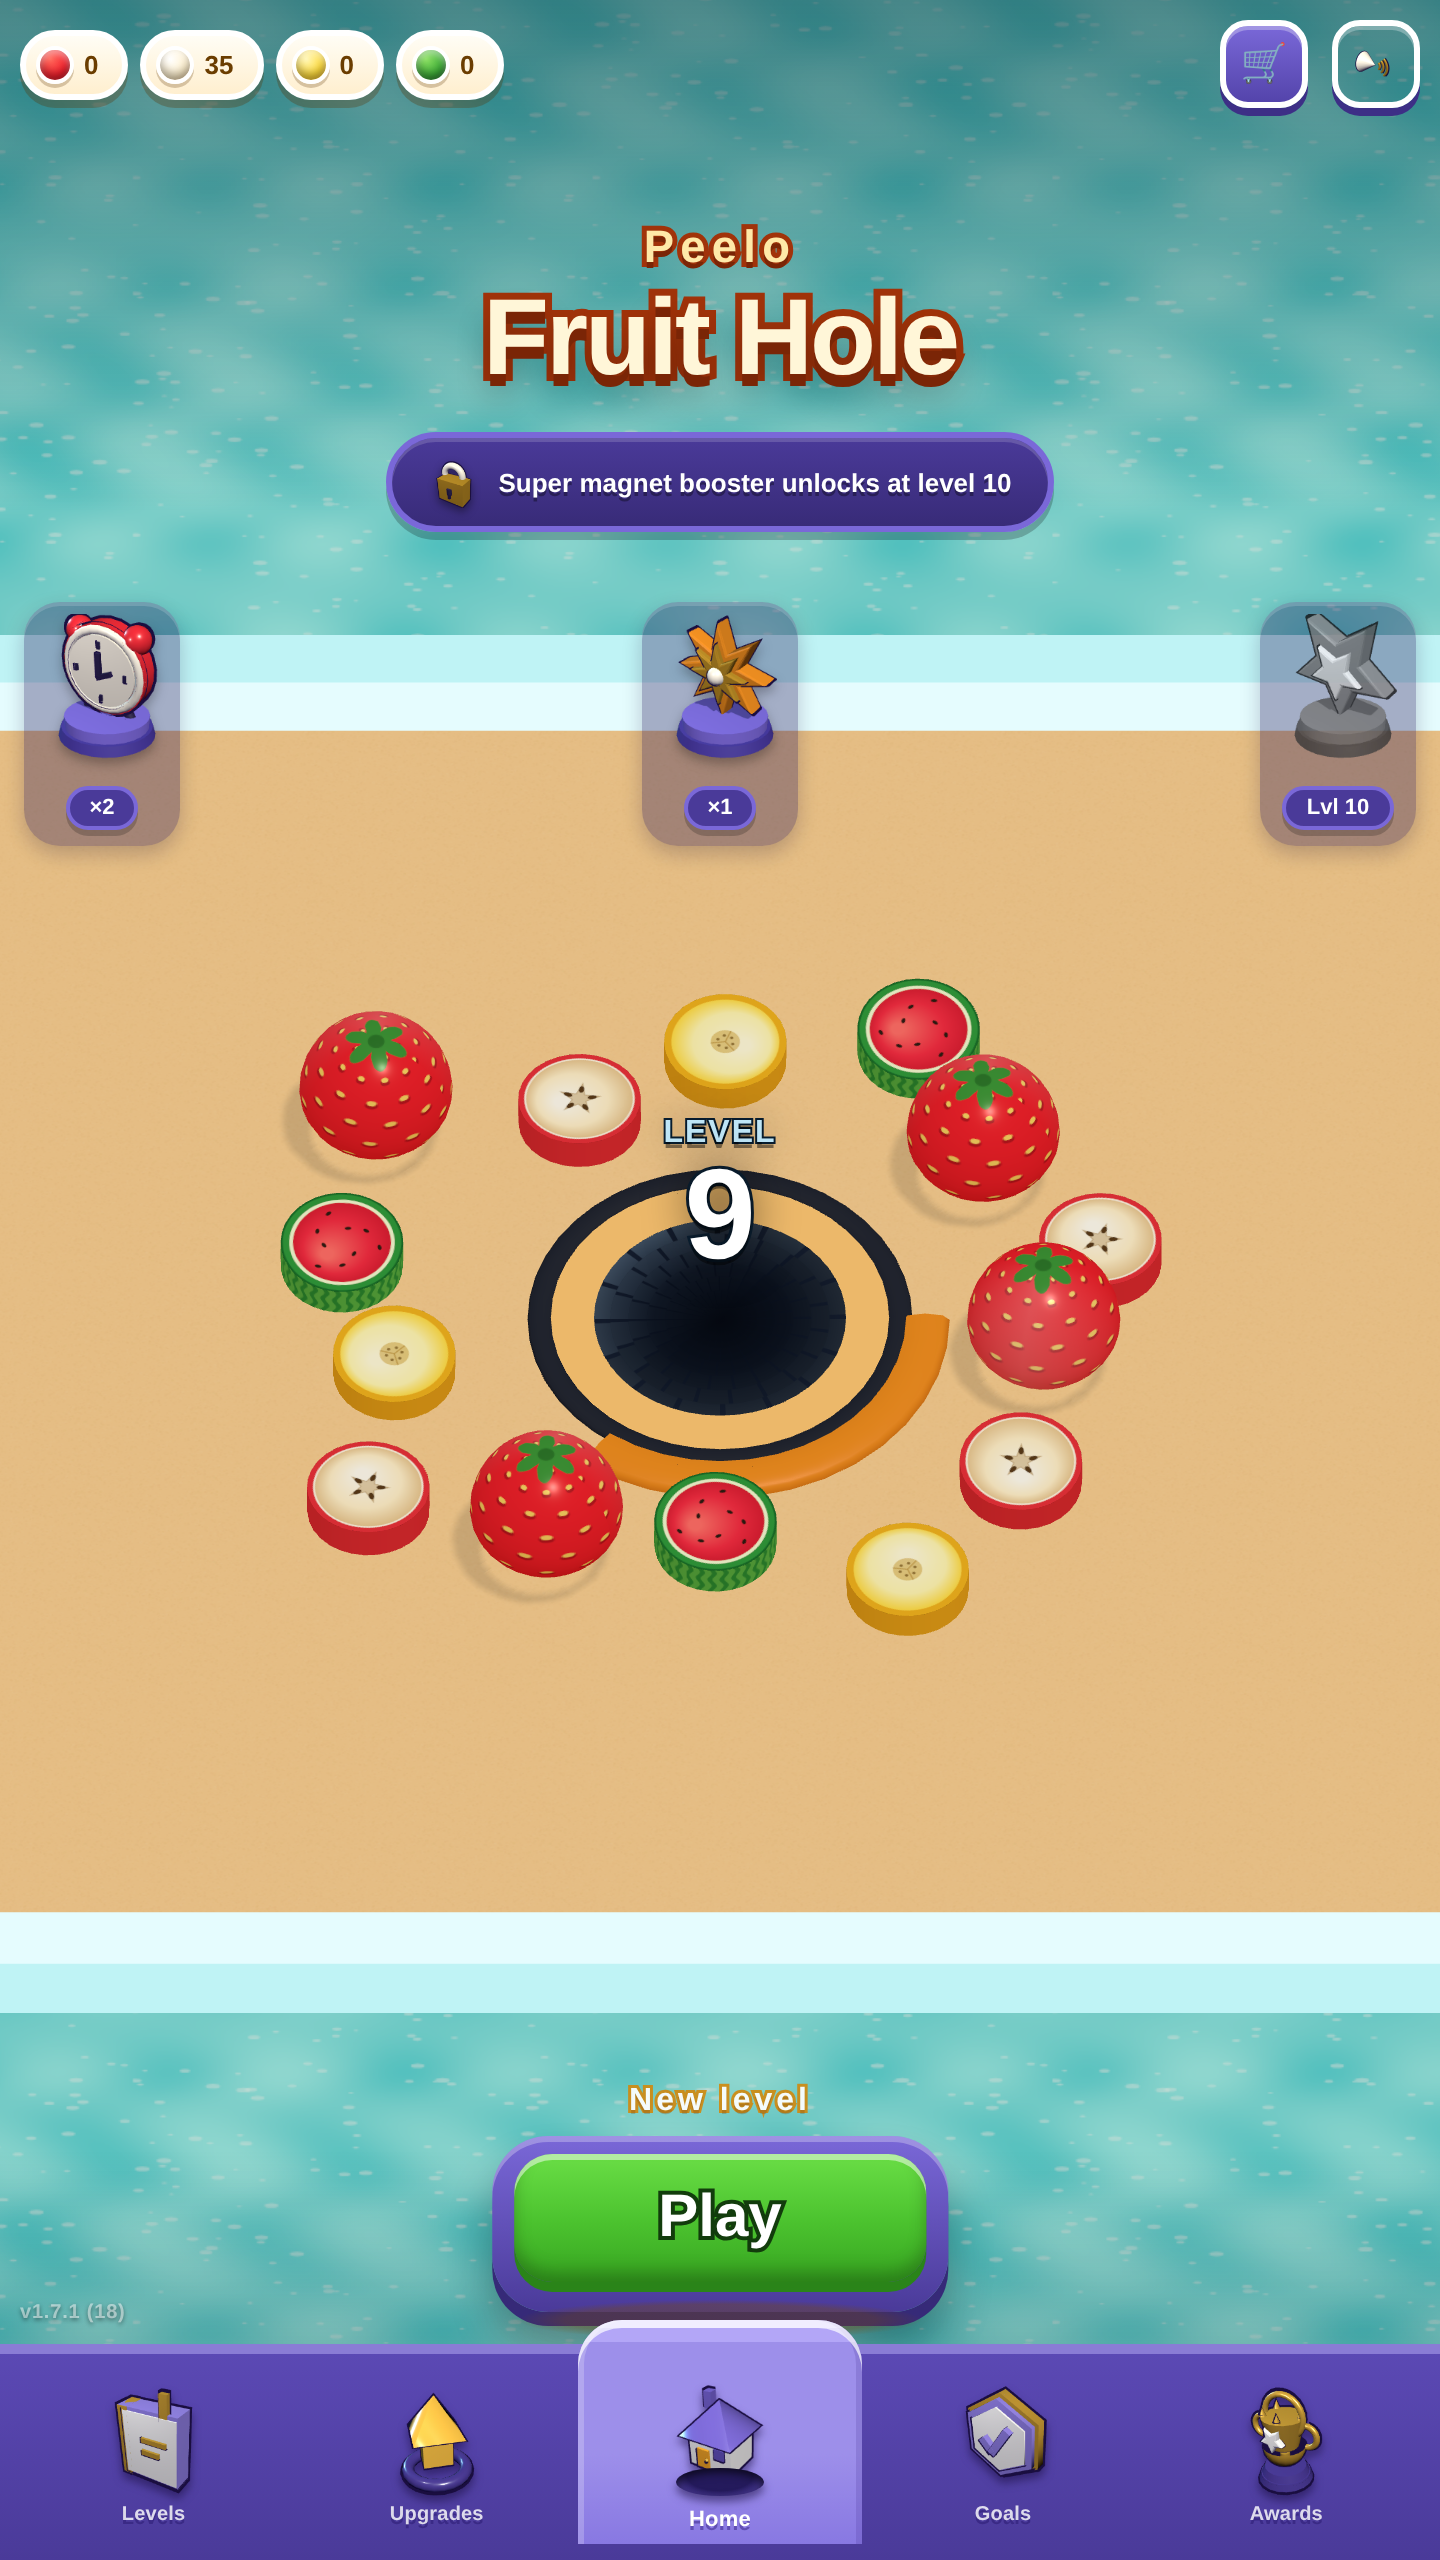
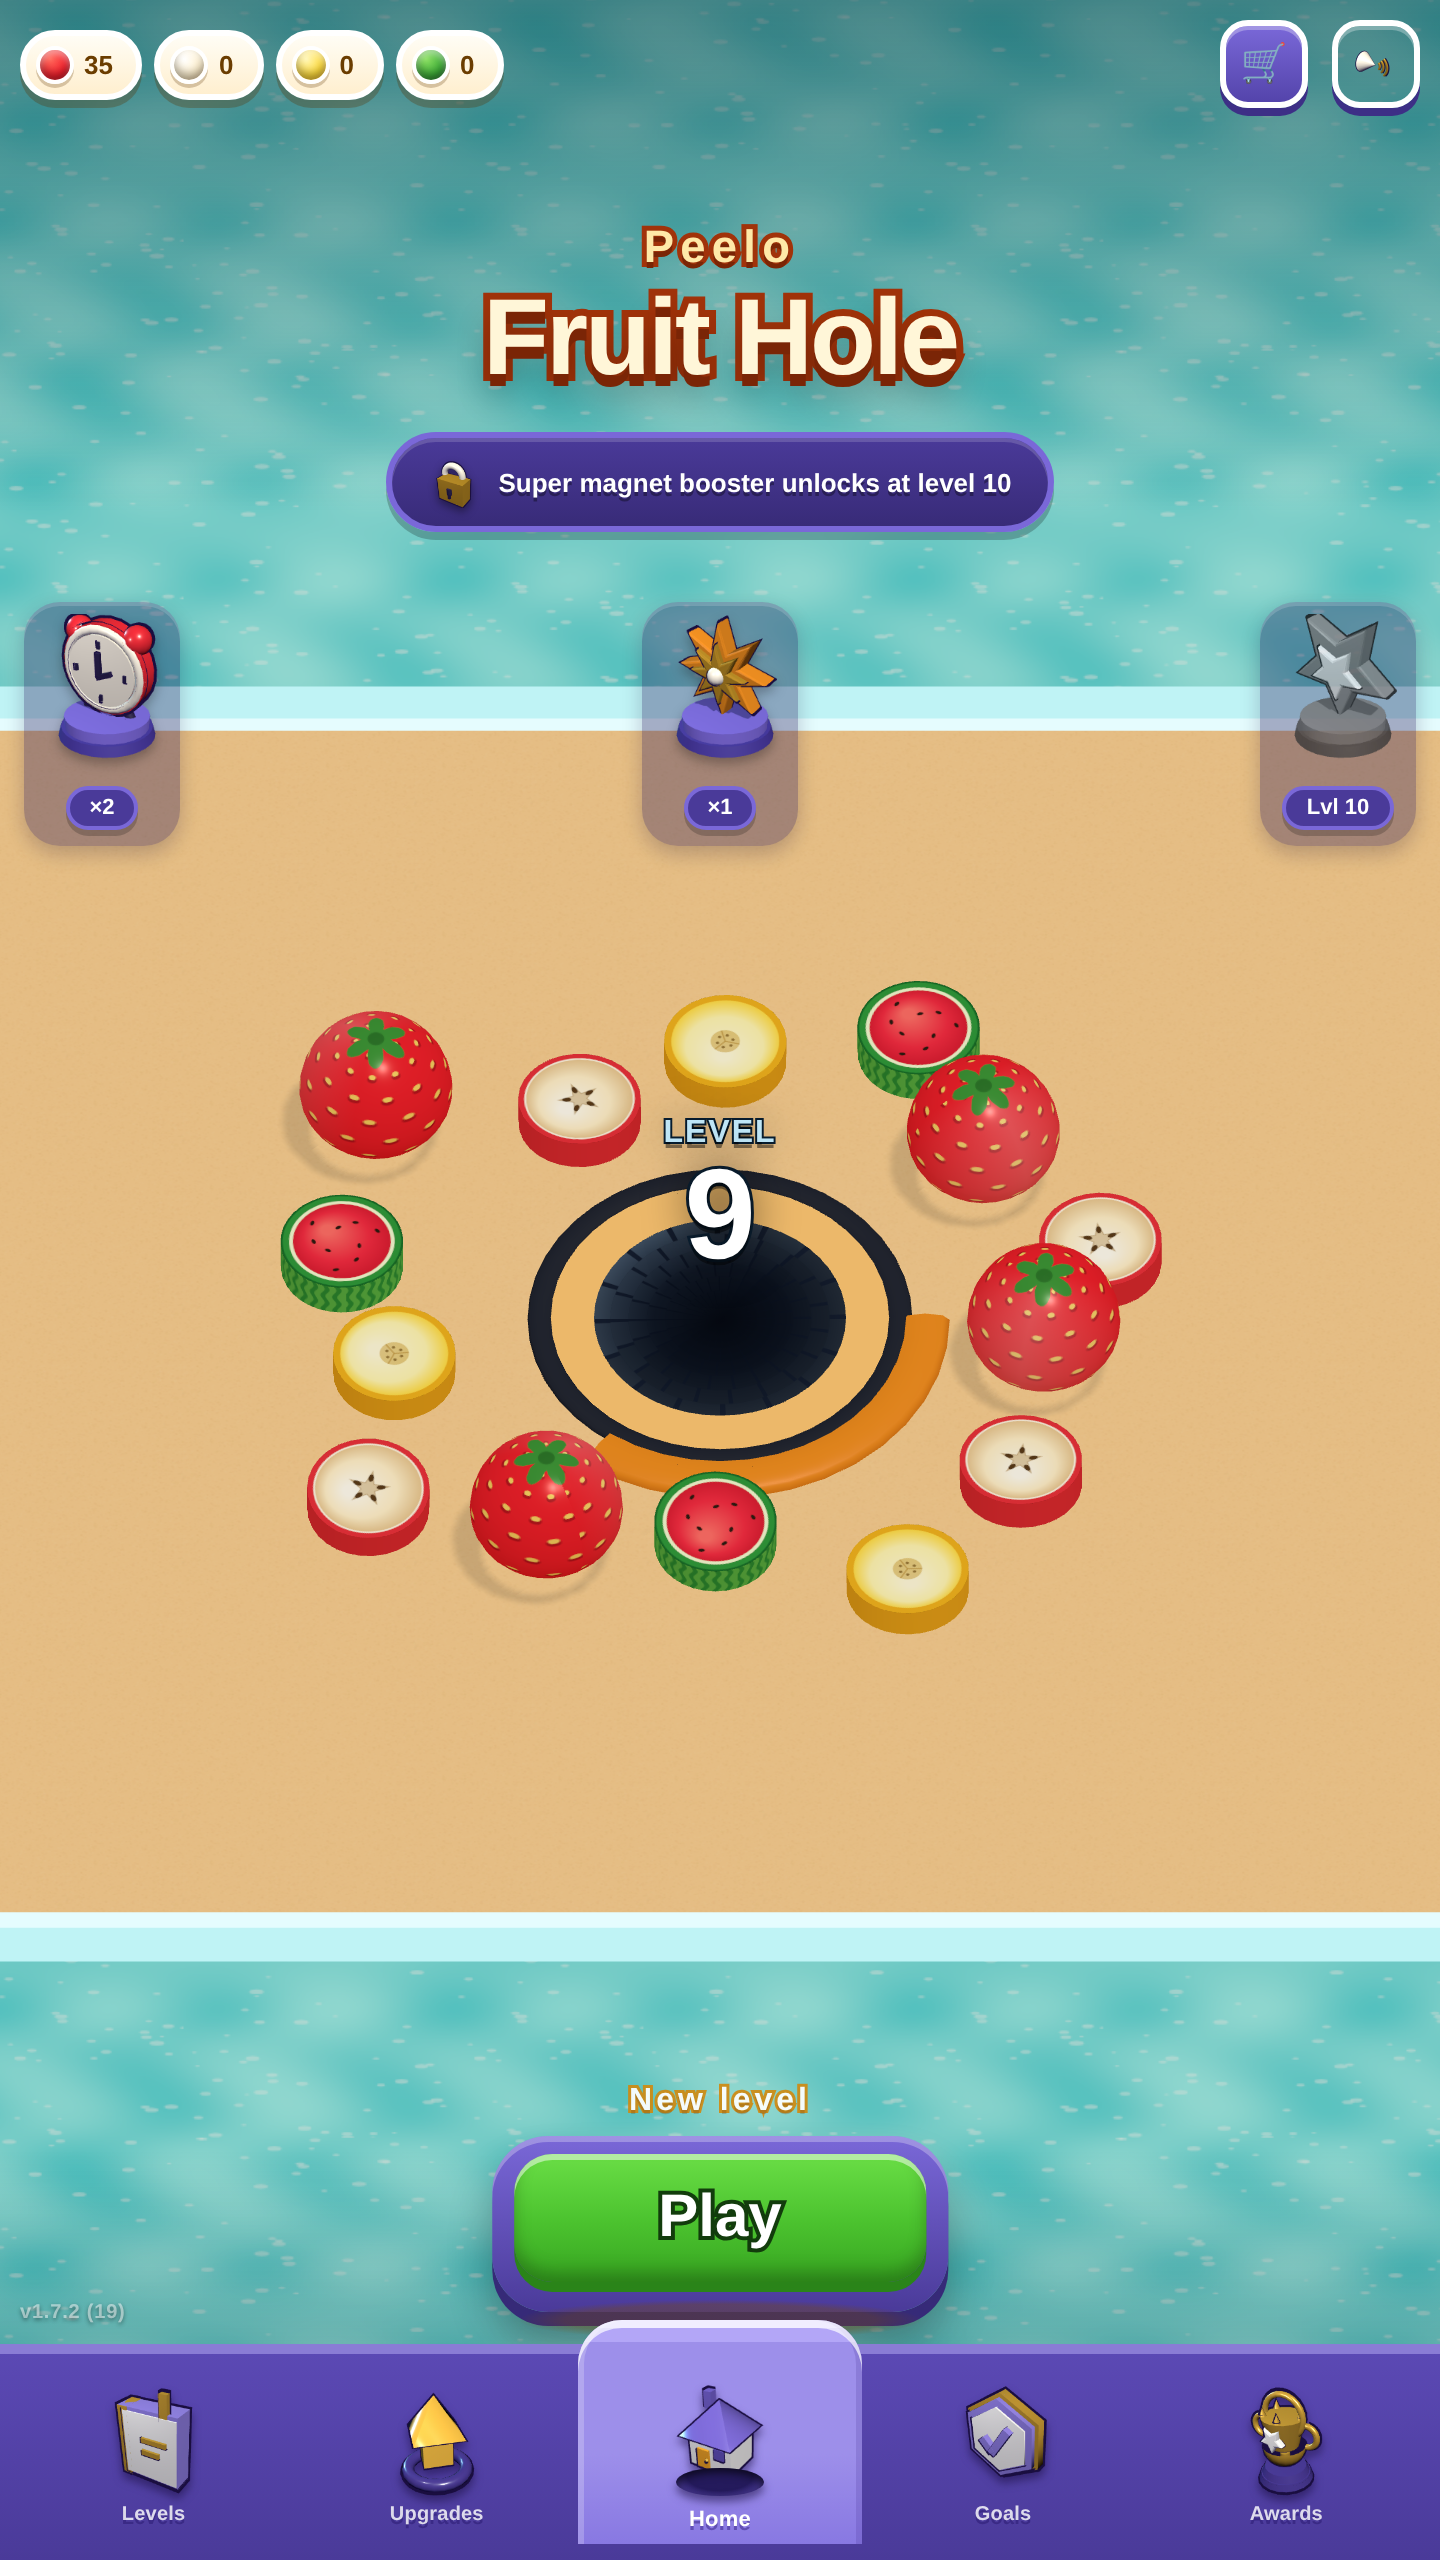
Fruit Hole: nothing stands between a new player and the game
I said the work was finished when what was actually finished was my own
list. Looking at the first sixty seconds instead — the part everything
else depends on — turned up two things, and the first is the worst thing
in the game.

On a fresh install the first screen anyone saw, before a single second
of play, was the daily reward: "Day 1 streak", 35 Banana, and a green
"Claim double" sitting above the plain Claim. A streak of one is a
streak of nothing. Thirty-five Banana is a currency they have not been
shown, for a shop they have not seen. And the very first thing the game
asked of them was to watch an advert, before giving them any reason to
want anything at all.

It waits until they have finished a level now. The reward is not lost —
it is there on the next launch, by which time there is a shop to spend
it in and a streak worth keeping. The two buttons are also the right way
round: the free one is nearest the thumb, the optional advert is not.

The gate is stats.levels rather than the presence of the stats object.
The four counters are filled with zeroes the moment the game loads, so
"has stats" is true on a phone that has never run it — my first attempt
therefore changed nothing at all.

The second thing was already there and this uncovered it. showMenu() was
only ever reached by dismissing the daily reward screen, so on any
launch without it — the second launch of the same day, and now every
first launch — the menu was never built. What came up behind the logo
[…]

diff --git a/www-fruithole/index.html b/www-fruithole/index.html
@@ -709,8 +709,10 @@
     <h1><span class="hIco" data-icon="star"></span>Daily Reward</h1>
     <p id="dailySub"></p>
     <div class="stats" id="dailyLoot"></div>
-    <button class="btn adBtn" id="daily2x" hidden>📺 Claim double</button>
+    <!-- Claim first. The free thing is the easy thing, and an optional
+         advert should never be the button nearest the thumb. -->
     <button class="btn" id="dailyBtn">Claim</button>
+    <button class="btn adBtn" id="daily2x" hidden>📺 Claim double</button>
   </div>
 
   <div id="upgrades" class="screen">
@@ -2215,8 +2217,28 @@ document.getElementById('daily2x').addEventListener('click', (e) => {
     showMenu();
   });
 });
+// Nothing stands between a new player and the game.
+//
+// On a fresh install this used to be the first screen anyone saw, before a
+// single second of play: "Daily Reward — Day 1 streak — 35 Banana", with a
+// green "📺 Claim double" sitting above the plain Claim. Every part of that
+// is wrong at that moment. A streak of one is a streak of nothing. Thirty
+// five Banana is a currency they have not been shown, for a shop they have
+// not seen. And the very first thing the game asks of them is to watch an
+// advert — before it has given them any reason to want anything.
+//
+// It waits until they have finished something now. The reward is not lost;
+// it is there on the next launch, by which time it means something, because
+// by then they have a shop to spend it in and a streak worth keeping.
+// stats.levels, not the presence of the stats object: the four counters are
+// filled in with zeroes the moment the game loads, so "has a stats object"
+// is true on a phone that has never run it.
+function playedBefore() {
+  return level > 1 || (stats.levels || 0) > 0;
+}
 function maybeShowDaily() {
   ensureDaily();
+  if (!playedBefore()) return false;
   return daily.rewardClaimed ? false : showDaily();
 }
 
@@ -5764,7 +5786,7 @@ let holeX = SPAWN_X, holeZ = 0;
 // the thing you would check to settle the question and it would answer
 // wrongly. Opening index.html straight in a browser says 'dev', which is
 // exactly what that is.
-const APP_VERSION = '1.7.1 (18)';
+const APP_VERSION = '1.7.2 (19)';
 {
   const el = document.getElementById('verTag');
   if (el) el.textContent = APP_VERSION === 'dev' ? 'dev' : 'v' + APP_VERSION;
@@ -7632,6 +7654,18 @@ camX = holeX; camZ = holeZ;
 resize();
 document.getElementById('loading').style.display = 'none';
 refreshGoalsBadge();
+// The menu is built here, not left to whoever happens to dismiss a dialog.
+//
+// showMenu() used to be reached only by closing the daily reward screen, so
+// on any launch where that screen did not appear — the second launch of the
+// same day, and now every first launch ever — nothing ever built the menu's
+// diorama or set the state to 'menu'. The menu's buttons came up over
+// whatever buildField() had just laid out for level 1: a full playing field
+// behind the logo instead of the ring of fruit the menu is supposed to show.
+//
+// Building it here and letting the daily screen cover it afterwards means
+// the menu is correct on every path into it.
+showMenu();
 maybeShowDaily();
 
 const BASE_MOVE_SPEED = 3.4;

diff --git a/fruithole/index.html b/fruithole/index.html
@@ -709,8 +709,10 @@
     <h1><span class="hIco" data-icon="star"></span>Daily Reward</h1>
     <p id="dailySub"></p>
     <div class="stats" id="dailyLoot"></div>
-    <button class="btn adBtn" id="daily2x" hidden>📺 Claim double</button>
+    <!-- Claim first. The free thing is the easy thing, and an optional
+         advert should never be the button nearest the thumb. -->
     <button class="btn" id="dailyBtn">Claim</button>
+    <button class="btn adBtn" id="daily2x" hidden>📺 Claim double</button>
   </div>
 
   <div id="upgrades" class="screen">
@@ -2215,8 +2217,28 @@ document.getElementById('daily2x').addEventListener('click', (e) => {
     showMenu();
   });
 });
+// Nothing stands between a new player and the game.
+//
+// On a fresh install this used to be the first screen anyone saw, before a
+// single second of play: "Daily Reward — Day 1 streak — 35 Banana", with a
+// green "📺 Claim double" sitting above the plain Claim. Every part of that
+// is wrong at that moment. A streak of one is a streak of nothing. Thirty
+// five Banana is a currency they have not been shown, for a shop they have
+// not seen. And the very first thing the game asks of them is to watch an
+// advert — before it has given them any reason to want anything.
+//
+// It waits until they have finished something now. The reward is not lost;
+// it is there on the next launch, by which time it means something, because
+// by then they have a shop to spend it in and a streak worth keeping.
+// stats.levels, not the presence of the stats object: the four counters are
+// filled in with zeroes the moment the game loads, so "has a stats object"
+// is true on a phone that has never run it.
+function playedBefore() {
+  return level > 1 || (stats.levels || 0) > 0;
+}
 function maybeShowDaily() {
   ensureDaily();
+  if (!playedBefore()) return false;
   return daily.rewardClaimed ? false : showDaily();
 }
 
@@ -7632,6 +7654,18 @@ camX = holeX; camZ = holeZ;
 resize();
 document.getElementById('loading').style.display = 'none';
 refreshGoalsBadge();
+// The menu is built here, not left to whoever happens to dismiss a dialog.
+//
+// showMenu() used to be reached only by closing the daily reward screen, so
+// on any launch where that screen did not appear — the second launch of the
+// same day, and now every first launch ever — nothing ever built the menu's
+// diorama or set the state to 'menu'. The menu's buttons came up over
+// whatever buildField() had just laid out for level 1: a full playing field
+// behind the logo instead of the ring of fruit the menu is supposed to show.
+//
+// Building it here and letting the daily screen cover it afterwards means
+// the menu is correct on every path into it.
+showMenu();
 maybeShowDaily();
 
 const BASE_MOVE_SPEED = 3.4;

diff --git a/fruithole/README.md b/fruithole/README.md
@@ -775,6 +775,48 @@ Play Games tabloları GÜNLÜK, HAFTALIK ve TÜM ZAMANLAR pencerelerini kendisi
 tuttuğu için tek tablo yetiyor — gece yarısı değişen bir tarla için istenen
 şey zaten "bugünün sıralaması".
 
+## Yeni oyuncunun ilk ekranı
+
+Üretime çıkmadan önce oyunun ilk altmış saniyesine bakıldı, çünkü kalan her
+şey ona bağlı — insanlar orada bırakıyor. İki şey çıktı, ikisi de kötüydü.
+
+**Oyunu görmeden önce bir reklam teklifi.** Sıfırdan kurulmuş bir telefonda
+ilk açılan ekran günlük ödül ekranıydı: *"Daily Reward — Day 1 streak — 35
+Banana"*, ve en üstte yeşil bir **📺 Claim double**. Her parçası o an için
+yanlış. Bir günlük seri hiçbir şeyin serisi. Otuz beş muz, henüz görülmemiş
+bir dükkânın parası. Ve oyunun oyuncudan ilk isteği, ona herhangi bir şey
+istemek için sebep vermeden, bir reklam izlemesi.
+
+Artık oyuncu bir bölüm bitirene kadar çıkmıyor (`playedBefore()`). Ödül
+kaybolmuyor; ertesi açılışta, bir anlamı olduğu yerde duruyor — o zaman
+harcayacağı bir dükkânı ve sürdürmeye değer bir serisi var.
+
+Ölçüt `stats.levels`, `stats` nesnesinin varlığı değil: dört sayaç oyun
+yüklenir yüklenmez sıfırlarla dolduruluyor, yani "stats var mı" hiç
+çalıştırılmamış bir telefonda da doğru dönüyor. İlk denemem tam olarak bu
+yüzden hiçbir şeyi değiştirmedi.
+
+Bir de düğme sırası ters duruyordu: yeşil "Claim double" sarı "Claim"in
+üstündeydi. Bedava olan, başparmağa en yakın olan olmalı; isteğe bağlı bir
+reklam asla ilk okunan düğme değil.
+
+## Menü sahnesi her yolda kuruluyor
+
+Yukarıdakini düzeltirken ortaya çıktı ve **eskiden beri vardı**: `showMenu()`
+yalnızca günlük ödül ekranı kapatılınca çağrılıyordu. O ekranın çıkmadığı her
+açılışta — aynı günün ikinci açılışında da — menü hiç kurulmuyordu. Ekrana
+gelen şey, açılışta `buildField()`'in kurduğu **1. bölümün tam tarlasıydı**:
+logonun arkasında ondört meyvelik halka yerine dolu bir oyun alanı, ve `state`
+hiç `'menu'` olmuyordu.
+
+`showMenu()` artık açılışta doğrudan çağrılıyor, günlük ekranı da üstünü
+örtüyor. Menüye giden her yol aynı yerden geçiyor.
+
+`scratchpad/holeaudit.mjs` ikisini de tutuyor: ilk açılışta günlük ekranın
+çıkmadığını, menünün kurulduğunu (`state === 'menu'`), bir bölüm bitirdikten
+sonraki açılışta ödülün çıktığını ve bedava düğmenin reklamlıdan önce
+geldiğini.
+
 ## İsim: Peelo
 
 Oyun **Peelo: Fruit Hole** oldu. Paket kimliği (`com.kaancetinkaya.fruithole`)

diff --git a/fruithole/store/listing-en.md b/fruithole/store/listing-en.md
@@ -129,6 +129,18 @@ Press anywhere and drag. That's the whole control scheme. No connection needed.
 Ready to clear the field?
 ```
 
+## What's new — 1.7.2 / versionCode 19 (≤ 500 chars per language)
+
+English (171 chars):
+```
+New players go straight into the game now. The daily reward waits until you have finished a level, so it arrives when it means something instead of before you have played.
+```
+
+Türkçe (145 karakter):
+```
+Yeni oyuncular artık doğrudan oyuna giriyor. Günlük ödül, bir bölüm bitirene kadar bekliyor — oynamadan önce değil, bir anlamı olduğunda geliyor.
+```
+
 ## What's new — 1.7.1 / versionCode 18 (≤ 500 chars per language)
 
 English (133 chars):
